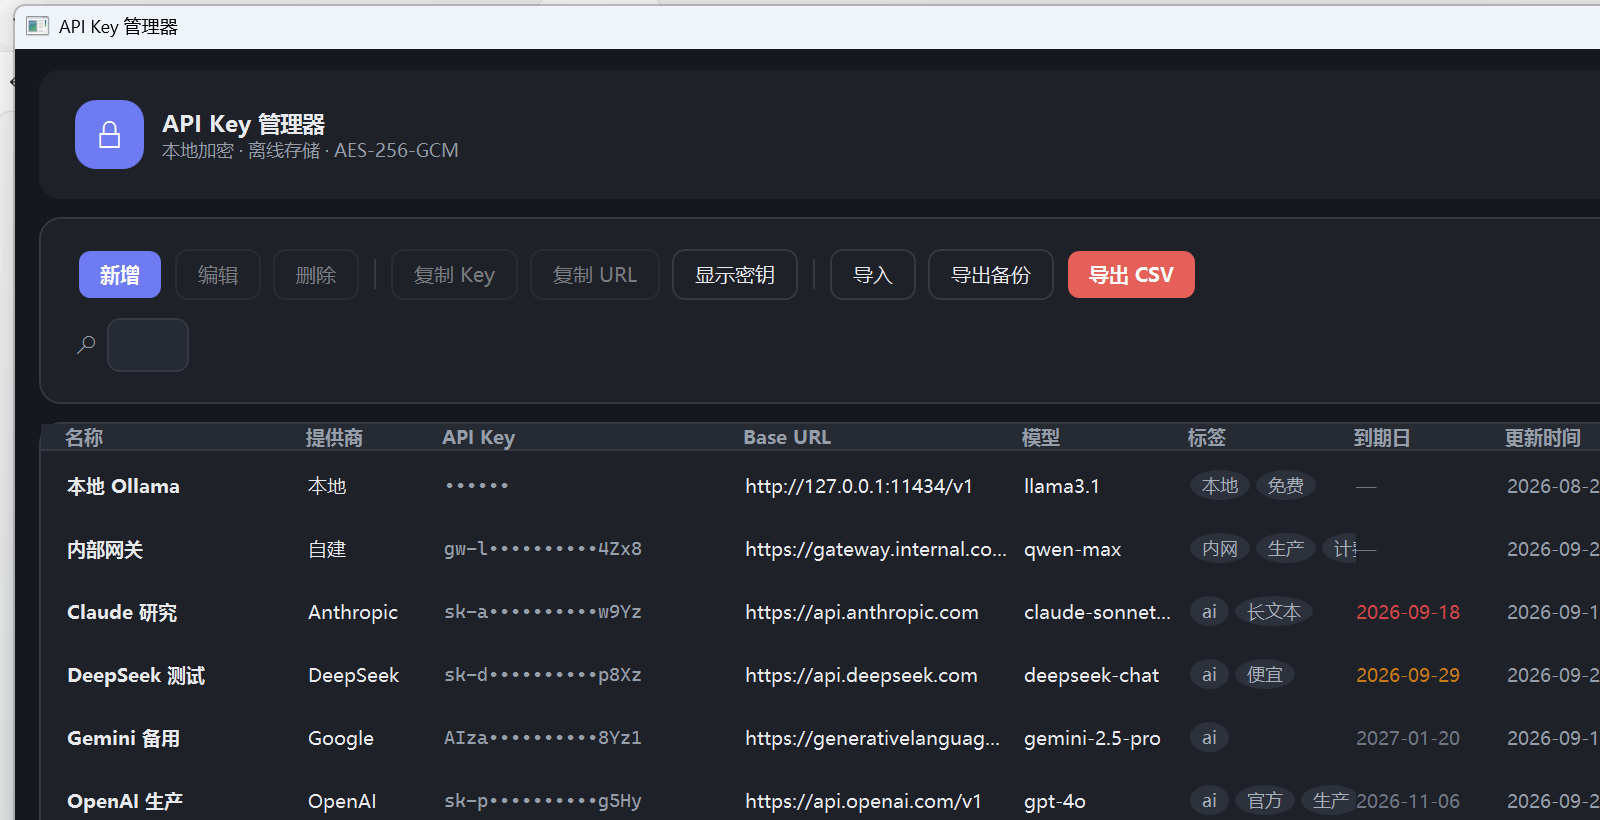
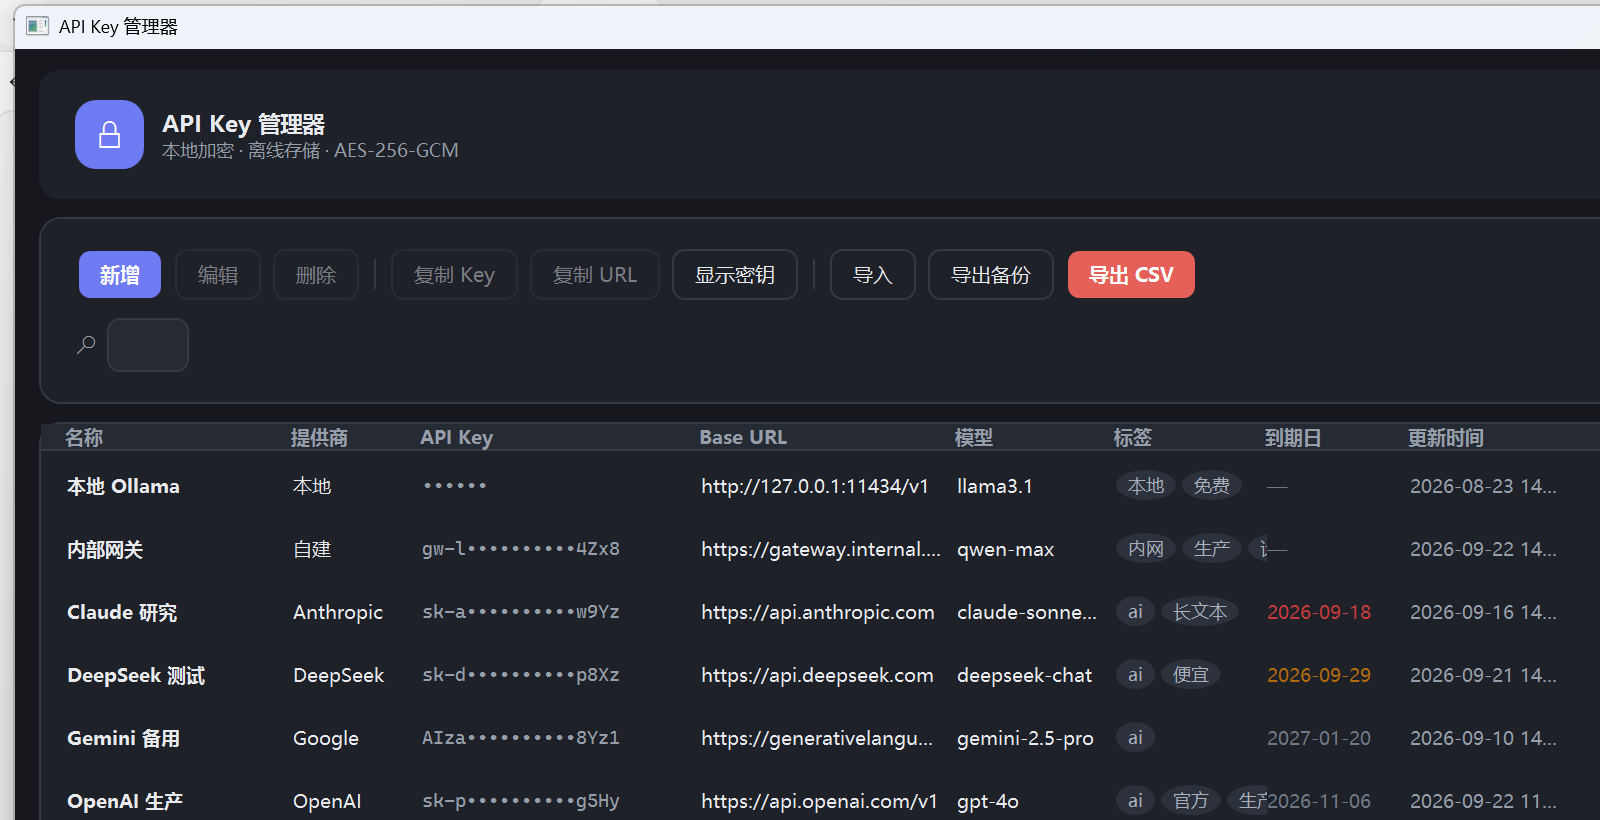
Fix dialog/table layout: replace infinite-measure StackPanel with Grid, size columns from measured widths, add --layoutcheck tool

diff --git a/src/ApiKeyManager.Wpf/Views/EntryEditDialog.xaml b/src/ApiKeyManager.Wpf/Views/EntryEditDialog.xaml
@@ -2,8 +2,8 @@
         xmlns="http://schemas.microsoft.com/winfx/2006/xaml/presentation"
         xmlns:x="http://schemas.microsoft.com/winfx/2006/xaml"
         Title="编辑 API Key"
-        Width="580"
-        SizeToContent="Height"
+        Width="640"
+        Height="700"
         ResizeMode="NoResize"
         WindowStartupLocation="CenterOwner"
         Background="{DynamicResource Back}"
@@ -15,11 +15,32 @@
       原版 Forms.cs 用 33 处 Location = new Point(x, y) 手工排版，
       加一个字段要重算所有后续 Y 坐标并改 ClientSize。
       这里用 Grid 的 Auto 行：加字段只需插入一行定义。
+
+      宽度 640 的构成：Card Margin 16*2 = 32，Card Padding 24*2 = 48，
+      标签列 76 + 12 间距 = 88，余下约 470 给输入控件。
+
+      为什么不用 SizeToContent="Height"：
+      设了 SizeToContent 后 WPF 会以"无限宽"做测量，Grid 的 * 列
+      会被撑到内容的自然宽度而永不收缩，结果是内容比窗口宽、
+      右侧被裁掉（实测固定宽 580/640 都裁，就是这个原因）。
+      改为固定高度 + Grid 的 Auto 行自适应，宽度才真正成为约束。
     -->
     <Border Style="{StaticResource Card}" Margin="16">
-        <StackPanel>
+        <!--
+          MaxWidth 是关键：WPF 窗口会取内容的 DesiredWidth 作为硬性下限，
+          内容里任何一个长文本都会把窗口撑宽（表现为 Width 设了也不生效、
+          右侧被裁）。给根内容一个 MaxWidth，就把它钉在窗口内。
+        -->
+        <Grid>
+            <Grid.RowDefinitions>
+                <RowDefinition Height="Auto" />
+                <RowDefinition Height="Auto" />
+                <RowDefinition Height="Auto" />
+                <RowDefinition Height="Auto" />
+                <RowDefinition Height="Auto" />
+            </Grid.RowDefinitions>
             <!-- 标题 -->
-            <StackPanel Orientation="Horizontal" Margin="0,0,0,16">
+            <StackPanel Grid.Row="0" Orientation="Horizontal" Margin="0,0,0,16">
                 <Border x:Name="Badge" Style="{StaticResource GlyphBadge}" Margin="0,0,12,0">
                     <TextBlock Style="{StaticResource GlyphBadgeIcon}" Text="&#xE710;" />
                 </Border>
@@ -33,8 +54,13 @@
             <!--
               字段表：两列（标签 Auto / 输入 *），行全部 Auto。
               行间距由 RowDefinition + Margin 控制，不依赖像素坐标。
+
+              为什么设 HorizontalAlignment="Stretch" 和 MaxWidth：
+              垂直 StackPanel 以"无限宽"测量子项，内层 Grid 的 * 列
+              会因此展开到内容自然宽度而不收缩，结果内容比窗口还宽、
+              右侧被裁（Width 设多少都没用）。显式约束宽度让它收缩。
             -->
-            <Grid>
+            <Grid Grid.Row="1">
                 <Grid.ColumnDefinitions>
                     <ColumnDefinition Width="Auto" MinWidth="76" />
                     <ColumnDefinition Width="*" />
@@ -103,14 +129,16 @@
                         <ColumnDefinition Width="Auto" />
                         <ColumnDefinition Width="*" />
                     </Grid.ColumnDefinitions>
-                    <DatePicker x:Name="PickExpiry" Grid.Column="0" Width="150"
+                    <DatePicker x:Name="PickExpiry" Grid.Column="0" Width="140"
                                 VerticalAlignment="Center" />
-                    <StackPanel Grid.Column="1" Orientation="Horizontal" Margin="12,0,0,0"
+                    <StackPanel Grid.Column="1" Orientation="Horizontal" Margin="10,0,0,0"
                                 VerticalAlignment="Center">
                         <CheckBox x:Name="ChkNoExpiry" Style="{StaticResource ThemedCheckBox}"
-                                  Content="不设置到期提醒" VerticalAlignment="Center" />
+                                  Content="不提醒" VerticalAlignment="Center" />
+                        <!-- TextTrimming 必须有：否则长文案会把整个对话框撑宽 -->
                         <TextBlock x:Name="TxtExpiryHint" Style="{StaticResource TextCaption}"
-                                   Margin="12,0,0,0" VerticalAlignment="Center" />
+                                   Margin="10,0,0,0" VerticalAlignment="Center"
+                                   TextTrimming="CharacterEllipsis" />
                     </StackPanel>
                 </Grid>
 
@@ -122,20 +150,20 @@
             </Grid>
 
             <!-- 元信息 -->
-            <TextBlock x:Name="TxtMeta" Style="{StaticResource TextCaption}" Margin="0,12,0,0" />
+            <TextBlock Grid.Row="2" x:Name="TxtMeta" Style="{StaticResource TextCaption}" Margin="0,12,0,0" />
 
             <!-- 校验提示 -->
-            <TextBlock x:Name="TxtError" Style="{StaticResource TextCaption}"
+            <TextBlock Grid.Row="3" x:Name="TxtError" Style="{StaticResource TextCaption}"
                        Foreground="{DynamicResource Danger}"
                        TextWrapping="Wrap" Margin="0,8,0,0" Visibility="Collapsed" />
 
             <!-- 按钮 -->
-            <StackPanel Orientation="Horizontal" HorizontalAlignment="Right" Margin="0,20,0,0">
+            <StackPanel Grid.Row="4" Orientation="Horizontal" HorizontalAlignment="Right" Margin="0,20,0,0">
                 <Button x:Name="BtnCancel" Style="{StaticResource ButtonSubtle}"
                         Content="取消" Width="88" Margin="0,0,8,0" IsCancel="True" />
                 <Button x:Name="BtnSave" Style="{StaticResource ButtonPrimary}"
                         Content="保存" Width="88" IsDefault="True" />
             </StackPanel>
-        </StackPanel>
+        </Grid>
     </Border>
 </Window>

diff --git a/src/ApiKeyManager.Wpf/Views/MainWindow.xaml b/src/ApiKeyManager.Wpf/Views/MainWindow.xaml
@@ -21,7 +21,7 @@
         <conv:ExpiryBrushConverter x:Key="ExpiryText" AsText="True" />
 
         <!--
-          列宽定义：8 列固定像素，合计 1105。
+          列宽定义：8 列固定像素，合计 1000。
 
           为什么不用 * 星号 + SharedSizeGroup：
           SharedSizeGroup 的语义是"列宽 = 组内所有元素的最大 DesiredWidth"，
@@ -30,21 +30,18 @@
           固定像素 + 表头/行共用同一组常量，是 ListBox+ItemTemplate 表格最稳的做法。
 
           宽度预算：窗口 1600
-            - PadWindow 左右 32
-            - 卡片边框 2
-            - 表头左右内边距 20
-            - 垂直滚动条 16
+            - PadWindow 左右 32 - 卡片边框 2 - 表头内边距 20 - 垂直滚动条 16
             = 1530 可用
-          1105 远小于 1530，因此窗口缩到 ~1150 也不会裁列。
+          合计 1000 留足余量，因此窗口缩到约 1100 也不会裁列。
         -->
-        <GridLength x:Key="ColName">160</GridLength>
-        <GridLength x:Key="ColProvider">90</GridLength>
-        <GridLength x:Key="ColKey">200</GridLength>
-        <GridLength x:Key="ColUrl">185</GridLength>
-        <GridLength x:Key="ColModel">110</GridLength>
-        <GridLength x:Key="ColTags">110</GridLength>
-        <GridLength x:Key="ColExpiry">100</GridLength>
-        <GridLength x:Key="ColUpdated">150</GridLength>
+        <GridLength x:Key="ColName">150</GridLength>
+        <GridLength x:Key="ColProvider">85</GridLength>
+        <GridLength x:Key="ColKey">185</GridLength>
+        <GridLength x:Key="ColUrl">170</GridLength>
+        <GridLength x:Key="ColModel">105</GridLength>
+        <GridLength x:Key="ColTags">100</GridLength>
+        <GridLength x:Key="ColExpiry">95</GridLength>
+        <GridLength x:Key="ColUpdated">110</GridLength>
     </Window.Resources>
 
     <Grid Margin="{StaticResource PadWindow}">

diff --git a/src/ApiKeyManager.Wpf/Views/PasswordDialog.xaml b/src/ApiKeyManager.Wpf/Views/PasswordDialog.xaml
@@ -2,8 +2,8 @@
         xmlns="http://schemas.microsoft.com/winfx/2006/xaml/presentation"
         xmlns:x="http://schemas.microsoft.com/winfx/2006/xaml"
         Title="请输入密码"
-        Width="460"
-        SizeToContent="Height"
+        Width="520"
+        Height="460"
         ResizeMode="NoResize"
         WindowStartupLocation="CenterOwner"
         Background="{DynamicResource Back}"

diff --git a/src/ApiKeyManager.Wpf/Views/ImportModeDialog.xaml b/src/ApiKeyManager.Wpf/Views/ImportModeDialog.xaml
@@ -2,8 +2,8 @@
         xmlns="http://schemas.microsoft.com/winfx/2006/xaml/presentation"
         xmlns:x="http://schemas.microsoft.com/winfx/2006/xaml"
         Title="导入方式"
-        Width="480"
-        SizeToContent="Height"
+        Width="560"
+        Height="580"
         ResizeMode="NoResize"
         WindowStartupLocation="CenterOwner"
         Background="{DynamicResource Back}"

diff --git a/src/ApiKeyManager.Wpf/App.xaml.cs b/src/ApiKeyManager.Wpf/App.xaml.cs
@@ -62,6 +62,13 @@ public partial class App : Application
             return;
         }
 
+        if (Has("--layoutcheck"))
+        {
+            AttachConsoleForTool();
+            Shutdown(RunLayoutCheck());
+            return;
+        }
+
         // 数据目录重定向（--demo / --dir）必须在读取设置之前完成
         var scopes = new List<IDisposable>();
         string? dir = Value("--dir");
@@ -194,5 +201,100 @@ public partial class App : Application
 
         int missing = GlyphCatalog.CheckAll(Report);
         return missing == 0 ? 0 : missing < 0 ? 2 : 1;
+    }
+
+    private static readonly List<string> _layoutLog = new();
+
+    /// <summary>
+    /// 布局自检：创建主窗口并在真实排版后打印关键元素的实测尺寸。
+    /// 用来回答"内容到底需要多宽 / 哪一列被裁"，而不是靠截图猜。
+    ///
+    /// 注意：不调用 Show()（那会弹解锁框并阻塞）。用 Measure/Arrange
+    /// 在离屏状态下强制一次真实排版，拿到的 ActualWidth 同样是可靠的。
+    /// </summary>
+    private static int RunLayoutCheck()
+    {
+        void Say(string line)
+        {
+            try { Console.WriteLine(line); } catch { }
+            try { _layoutLog.Add(line); } catch { }
+        }
+
+        var window = new MainWindow();
+
+        // Window 本身在未 Show 时不会排版内容，因此直接对它的内容根排版。
+        // 客户区尺寸 = 窗口尺寸减去标题栏与边框（用 SystemParameters 估）：
+        //   标题栏约 30 DIP，左右边框各 1 DIP
+        double clientW = window.Width - 2;
+        double clientH = window.Height - 39;
+
+        if (window.Content is System.Windows.FrameworkElement root)
+        {
+            root.Measure(new System.Windows.Size(clientW, clientH));
+            root.Arrange(new System.Windows.Rect(0, 0, clientW, clientH));
+            root.UpdateLayout();
+            Say($"内容根 DesiredWidth={root.DesiredSize.Width:N1}  ActualWidth={root.ActualWidth:N1}");
+        }
+        else
+        {
+            Say("内容根未找到");
+        }
+
+        Say("=== 布局实测 ===");
+        Say($"窗口 Width={window.Width}  Height={window.Height}");
+        Say($"假设客户区 {clientW:N0} x {clientH:N0}");
+
+        if (window.FindName("EntryList") is System.Windows.FrameworkElement list)
+        {
+            Say($"EntryList ActualWidth={list.ActualWidth:N1}  DesiredWidth={list.DesiredSize.Width:N1}");
+        }
+        else
+        {
+            Say("EntryList 未找到");
+        }
+
+        var found = new List<(string Path, double W)>();
+        if (window.Content is System.Windows.DependencyObject croot) Walk(croot, "", found);
+
+        Say("");
+        Say("=== 表格 Grid 列宽实测 ===");
+        foreach (var (path, w) in found.OrderByDescending(x => x.W).Take(10))
+        {
+            Say($"  {w,9:N1}  {path}");
+        }
+
+        window.Close();
+
+        // WPF 应用可能没有可用的 stdout，结果同时落盘，确保一定拿得到
+        try
+        {
+            string outPath = Path.Combine(Path.GetTempPath(), "akm-layoutcheck.txt");
+            File.WriteAllText(outPath, string.Join(Environment.NewLine, _layoutLog));
+        }
+        catch { }
+
+        return 0;
+    }
+
+    private static void Walk(System.Windows.DependencyObject root, string path,
+                             List<(string, double)> sink)
+    {
+        if (root is System.Windows.Controls.Grid g && g.ColumnDefinitions.Count >= 4)
+        {
+            double sum = 0;
+            var widths = new List<string>();
+            foreach (var c in g.ColumnDefinitions)
+            {
+                sum += c.ActualWidth;
+                widths.Add(c.ActualWidth.ToString("N0"));
+            }
+            sink.Add(($"cols={g.ColumnDefinitions.Count} sum={sum:N0}  [{string.Join(",", widths)}]", sum));
+        }
+
+        int n = System.Windows.Media.VisualTreeHelper.GetChildrenCount(root);
+        for (int i = 0; i < n; i++)
+        {
+            Walk(System.Windows.Media.VisualTreeHelper.GetChild(root, i), path + "/" + i, sink);
+        }
     }
 }
